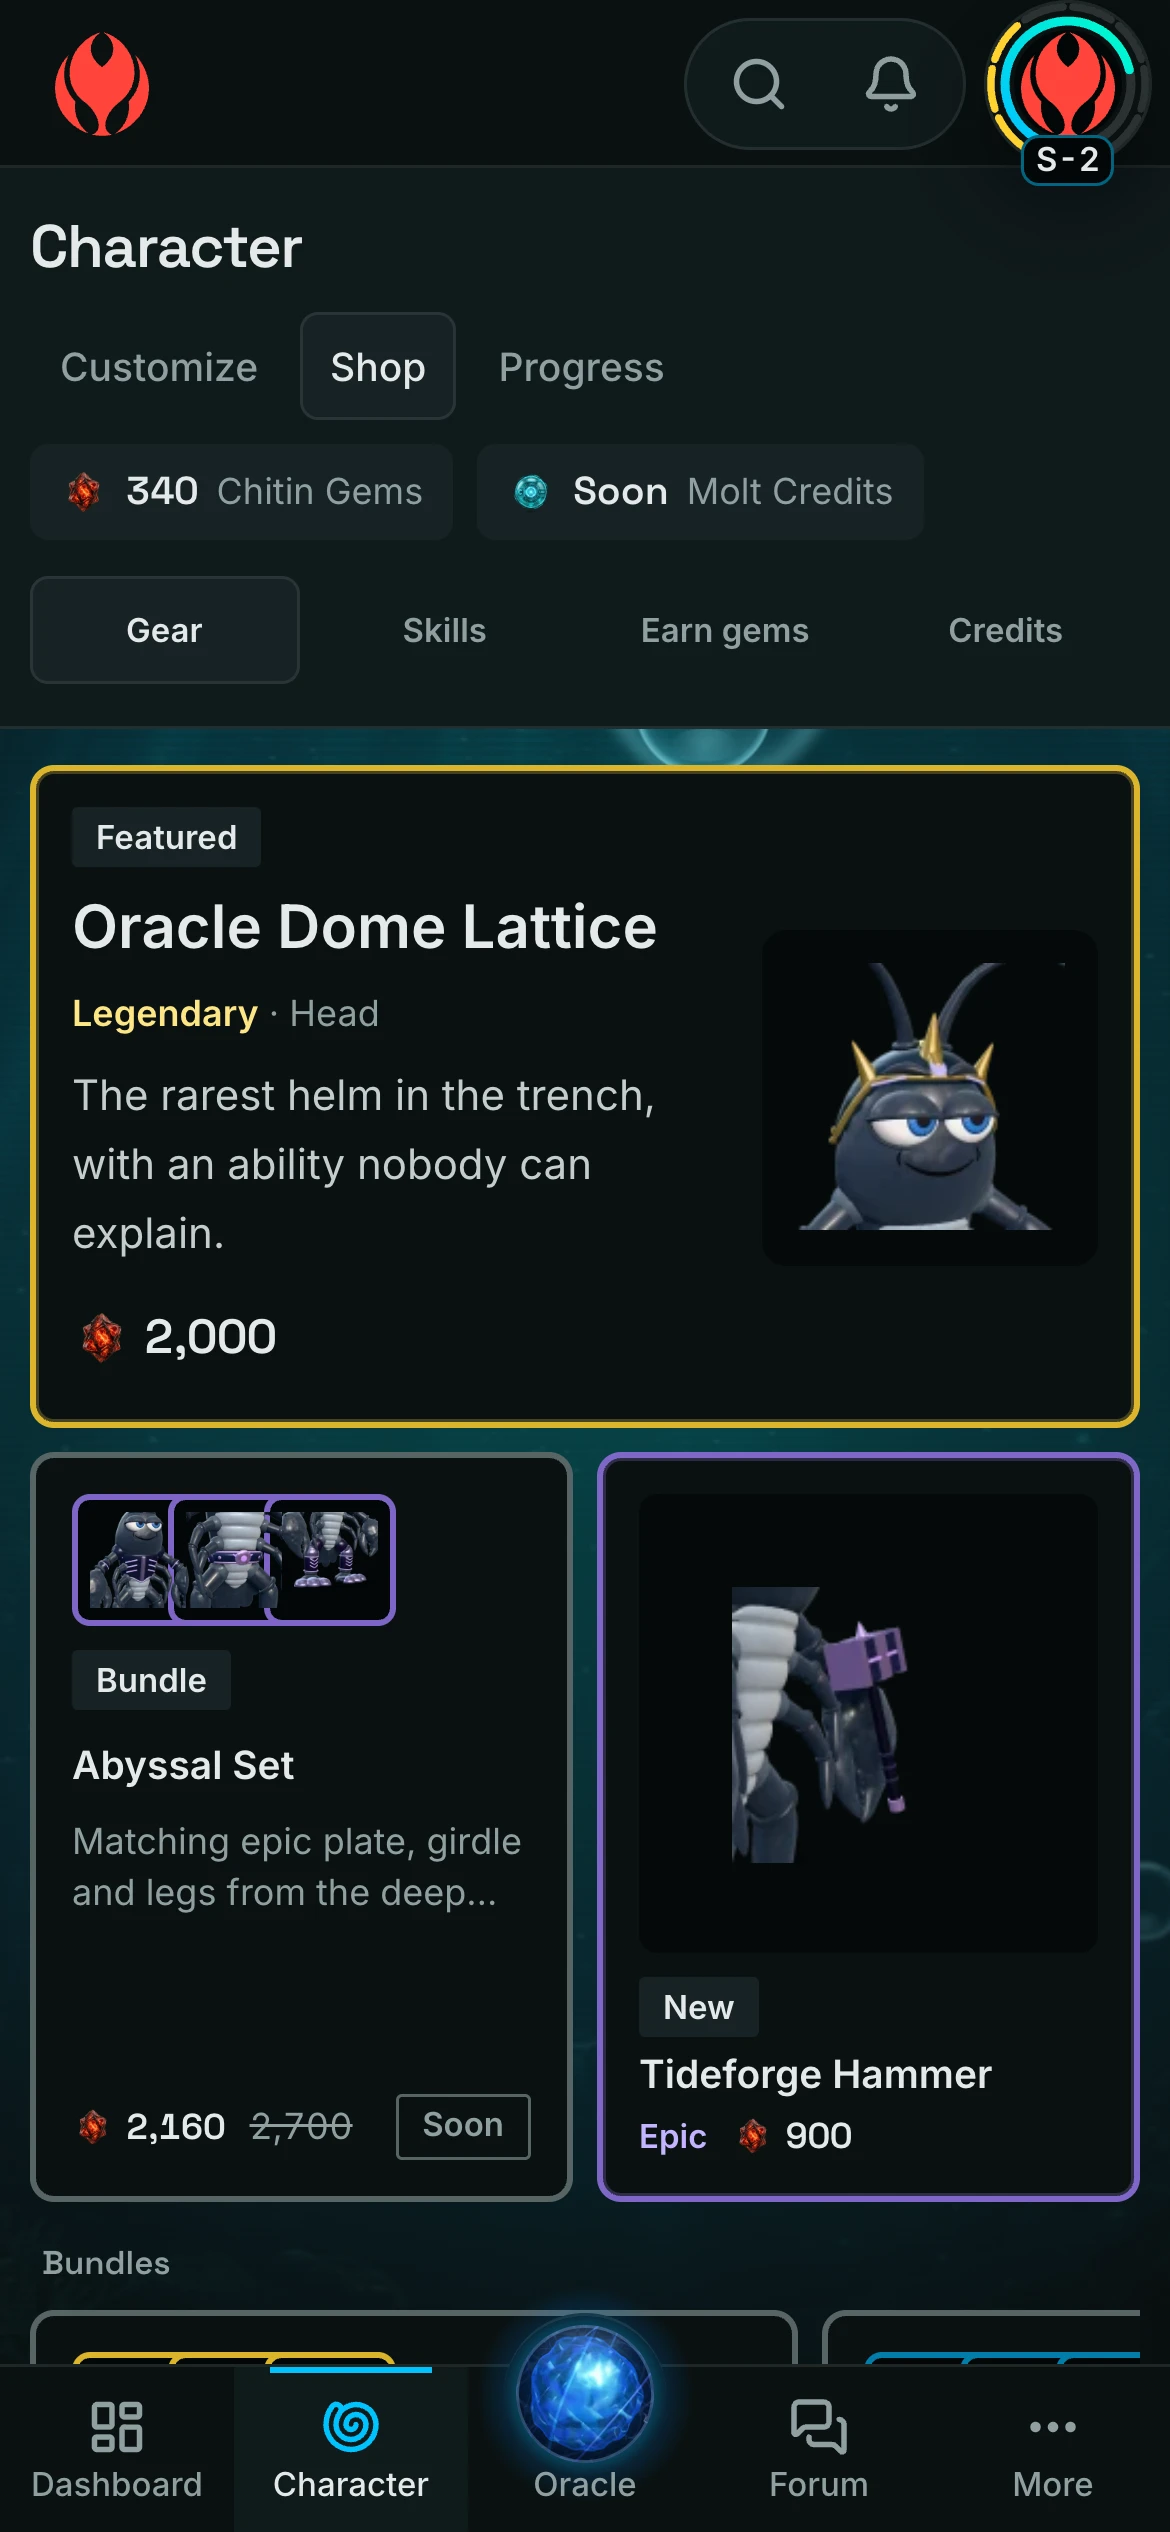
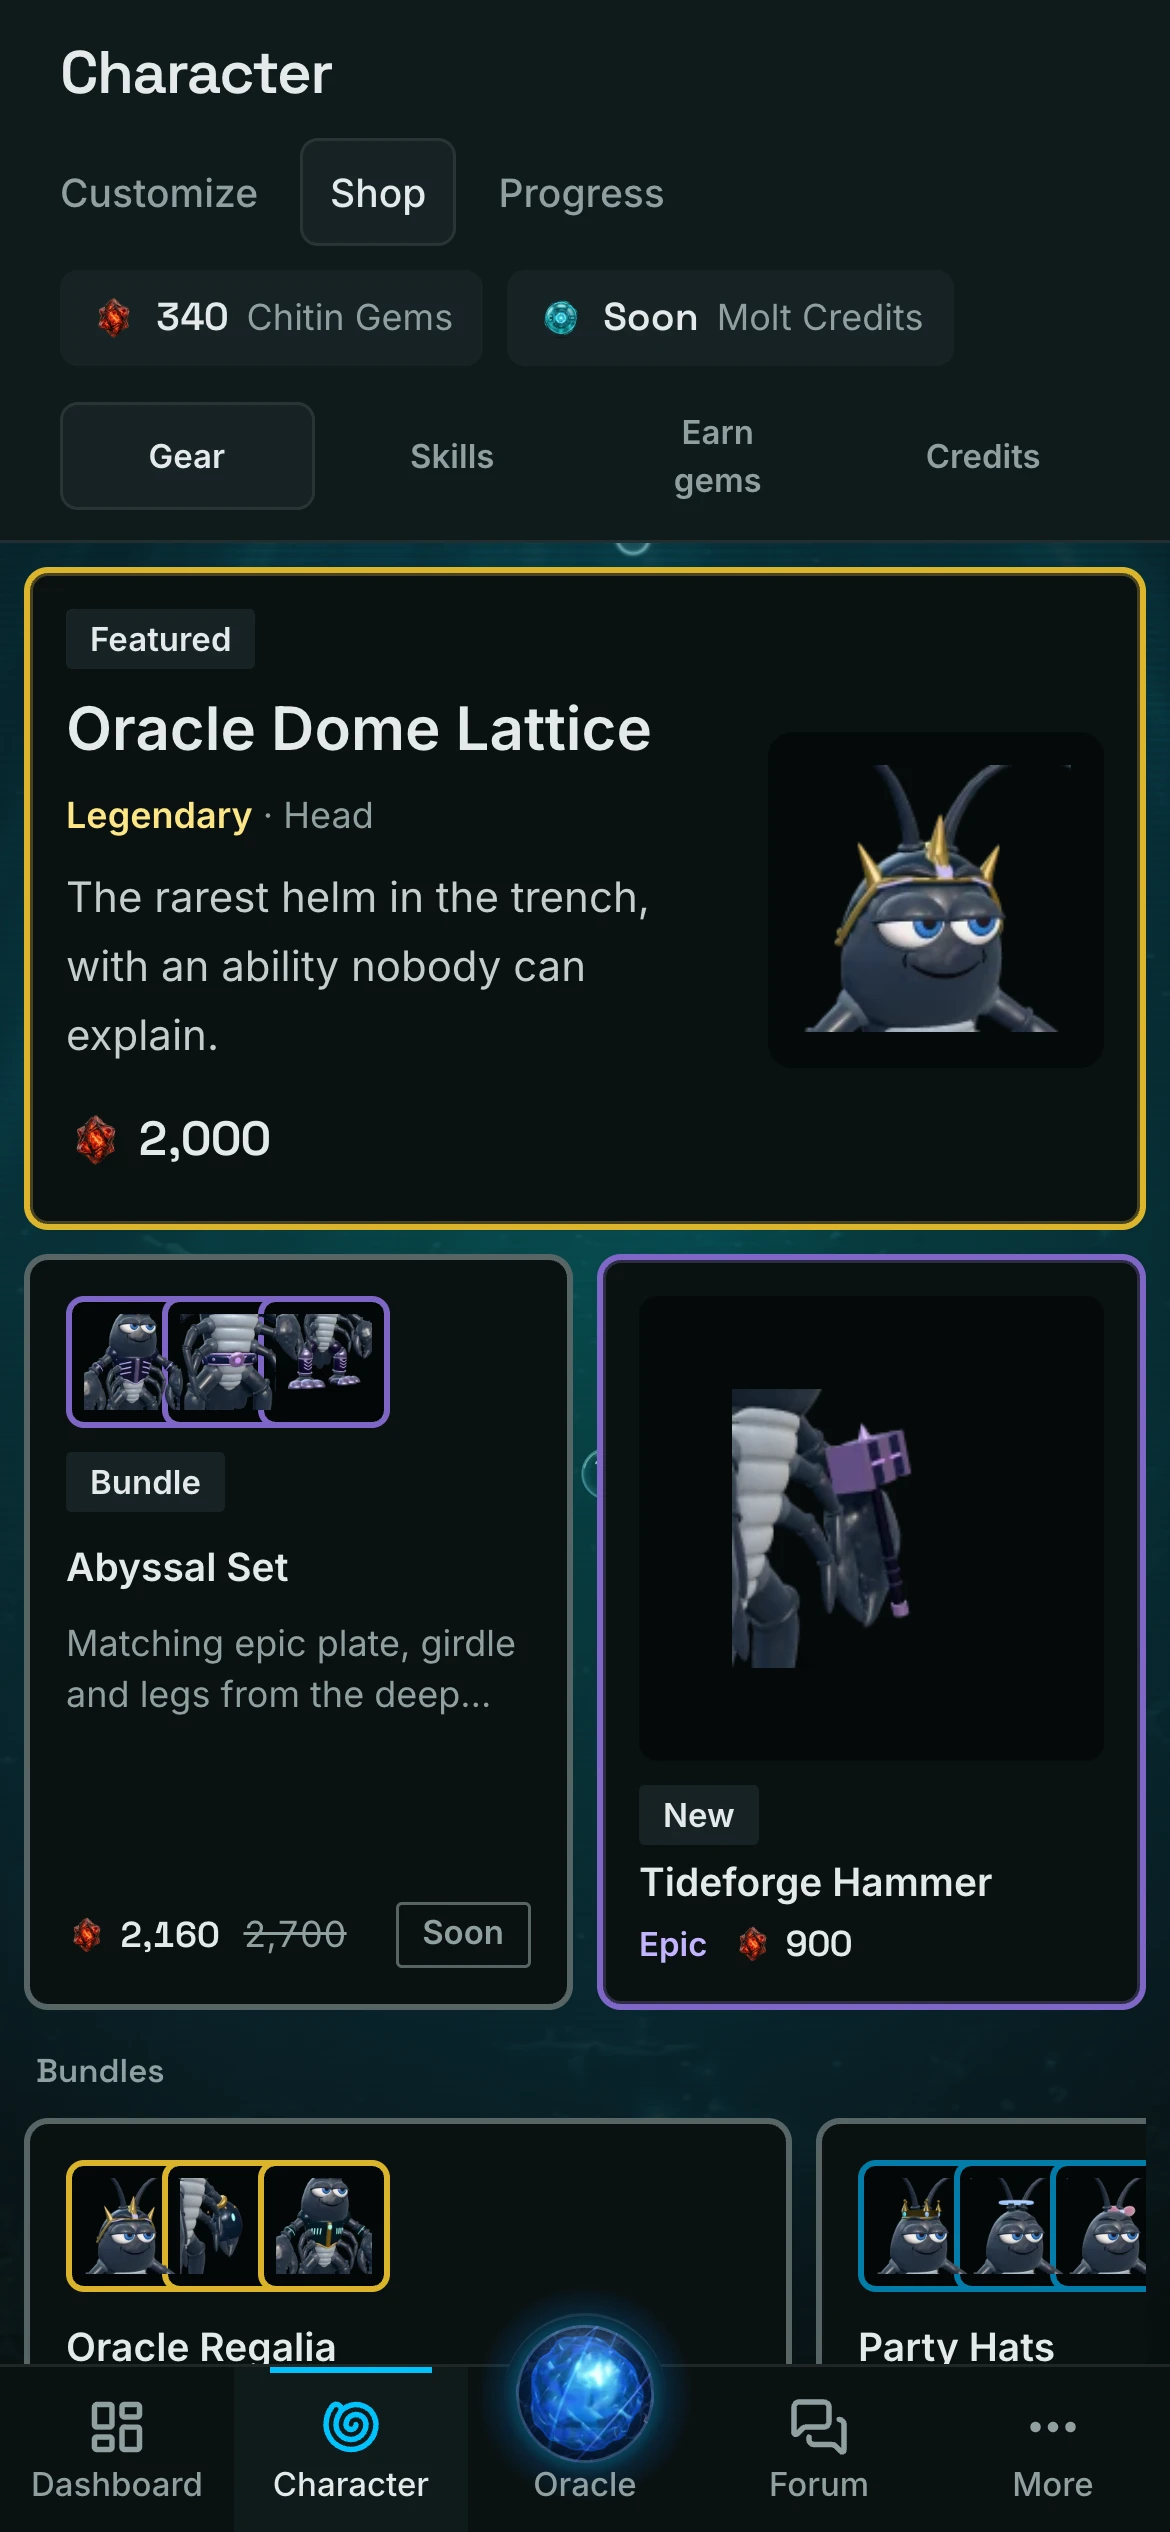
Refresh homepage and welcome email screenshots

diff --git a/src/components/home/device-preview-library.ts b/src/components/home/device-preview-library.ts
@@ -5,14 +5,16 @@
  * The app's page panel starts at the very top of the capture, so in-app shots keep y at 0 and run
  * to the right edge so the floating search pill and avatar stay whole.
  */
+const HUD_PANEL_FOCUS = { x: 0.055, y: 0, w: 0.94 } as const
+
 export const DEVICE_PREVIEW_LIBRARY = [
-  { id: 'dashboard', label: 'Dashboard', route: '/dashboard', alt: 'The Moltology dashboard, with daily modules, lectures and community news', caption: 'Your dashboard: today’s modules, lectures and news.', focus: { x: 0.125, y: 0, w: 0.87 } },
-  { id: 'forum', label: 'Community', route: '/forum', alt: 'The community boards and latest posts', caption: 'The community boards, where members compare notes on every stage.', focus: { x: 0.125, y: 0, w: 0.87 } },
+  { id: 'dashboard', label: 'Dashboard', route: '/dashboard', alt: 'The Moltology dashboard, with daily modules, lectures and community news', caption: 'Your dashboard: today’s modules, lectures and news.', focus: HUD_PANEL_FOCUS },
+  { id: 'forum', label: 'Community', route: '/forum', alt: 'The community boards and latest posts', caption: 'The community boards, where members compare notes on every stage.', focus: HUD_PANEL_FOCUS },
   { id: 'oracle', label: 'Oracle', route: '/oracle', alt: 'A new conversation with the Oracle', caption: 'Ask the Oracle for a plan, a nudge or a straight answer.', focus: { x: 0.055, y: 0, w: 0.84 } },
   { id: 'moltmax', label: 'Moltmax', route: '/moltmax', alt: 'A Moltmax diagnostic question with answers to choose from', caption: 'The Moltmax diagnostic shows how your focus holds up under noise.', focus: { x: 0.12, y: 0.13, w: 0.76 } },
-  { id: 'market', label: 'Shop', route: '/character/shop', alt: 'The gear shop catalog', caption: 'The gear shop, for pieces to dress your character.', focus: { x: 0.125, y: 0, w: 0.87 } },
-  { id: 'chassis', label: 'Character', route: '/character', alt: 'The character studio and equipment catalog', caption: 'Customize your character and preview equipment in the studio.', focus: { x: 0.125, y: 0, w: 0.87 } },
-  { id: 'codex', label: 'Codex', route: '/codex', alt: 'The Benthic Codex scripture library', caption: 'The Codex, the library of Moltology scripture.', focus: { x: 0.125, y: 0, w: 0.87 } },
+  { id: 'market', label: 'Shop', route: '/character/shop', alt: 'The gear shop catalog', caption: 'The gear shop, for pieces to dress your character.', focus: HUD_PANEL_FOCUS },
+  { id: 'chassis', label: 'Character', route: '/character', alt: 'The character studio and equipment catalog', caption: 'Customize your character and preview equipment in the studio.', focus: HUD_PANEL_FOCUS },
+  { id: 'codex', label: 'Codex', route: '/codex', alt: 'The Benthic Codex scripture library', caption: 'The Codex, the library of Moltology scripture.', focus: HUD_PANEL_FOCUS },
 ] as const
 
 export type DevicePreview = (typeof DEVICE_PREVIEW_LIBRARY)[number]

diff --git a/scripts/capture-dashboard-mockups.ts b/scripts/capture-dashboard-mockups.ts
@@ -233,7 +233,14 @@ async function main() {
         if (target.name.startsWith('moltmax')) {
           await page.getByRole('button', { name: 'Start the quiz', exact: true }).last().click()
           await page.locator('[role=progressbar]').first().waitFor()
+          if (target.isMobile || target.clip) {
+            await page.addStyleTag({ content: 'header:has(nav[aria-label="Main Navigation"]) { display: none !important; }' })
+          }
+          if (target.isMobile) {
+            await page.addStyleTag({ content: 'main:has([role="progressbar"]) { padding-top: 12px !important; }' })
+          }
         }
+        await page.addStyleTag({ content: CAPTURE_CSS })
         await page.evaluate(async () => {
           // Lazy images at the fold edge may never start in a still screenshot; load them now.
           document.querySelectorAll<HTMLImageElement>('img[loading="lazy"]').forEach((image) => { image.loading = 'eager' })
@@ -242,6 +249,15 @@ async function main() {
             .map((image) => Promise.race([image.decode().catch(() => undefined), new Promise((resolve) => setTimeout(resolve, 10000))])))
         })
         await page.waitForTimeout(1500)
+        // The Shop renders many 3D thumbnails in a queue after network requests settle.
+        if (target.name.startsWith('market')) {
+          await page.waitForFunction(() => !Array.from(document.querySelectorAll('[data-testid="gear-icon"]')).some((icon) => {
+            const { top, bottom, left, right } = icon.getBoundingClientRect()
+            if (top >= innerHeight || bottom <= 0 || left >= innerWidth || right <= 0 || !icon.checkVisibility()) return false
+            const image = icon.querySelector<HTMLImageElement>('[data-testid="character-still"]')
+            return !image?.complete || image.naturalWidth === 0 || image.classList.contains('opacity-0')
+          }), undefined, { timeout: 30000 })
+        }
         if (credentials) {
           // Do not publish the development account's display name in marketing images.
           const session = await context.request.get(new URL('/api/auth/get-session', baseUrl).href)
@@ -267,7 +283,6 @@ async function main() {
         if (dialogs.length) throw new Error(`A dialog covers ${target.name}: ${dialogs.join(', ')}`)
         // Park the pointer on empty page edge; the top-left corner shows the collapsed rail's brand tooltip.
         await page.mouse.move(width - 2, Math.round(height / 2))
-        await page.addStyleTag({ content: CAPTURE_CSS })
         const pngPath = path.join(stage, `${target.outputBase}.png`)
         await page.screenshot({ path: pngPath, animations: 'disabled', clip: target.clip ? await clipRegion(page, target.clip, width, height) : undefined })
         await encodeMarketingWebp(pngPath, path.join(stage, `${target.outputBase}.webp`), 90)

diff --git a/public/sw.js b/public/sw.js
@@ -1,7 +1,7 @@
 /* Moltology Command Hub service worker — network-first navigations, asset caching, notification click. */
 /* global self, caches, clients, fetch, Response */
 
-const VERSION = 'moltology-hub-v22-brand-58da5cd3ec3d'
+const VERSION = 'moltology-hub-v25-brand-58da5cd3ec3d'
 const PRECACHE = `${VERSION}-precache`
 const RUNTIME = `${VERSION}-runtime`
 const PAGES = `${VERSION}-pages`

diff --git a/src/lib/marketing-assets-version.ts b/src/lib/marketing-assets-version.ts
@@ -3,4 +3,4 @@
  * Automatically incremented by scripts/capture-dashboard-mockups.ts to bust
  * browser, CDN, and Service Worker caches when new mockups are captured.
  */
-export const MARKETING_ASSET_VERSION = '19'
+export const MARKETING_ASSET_VERSION = '22'
